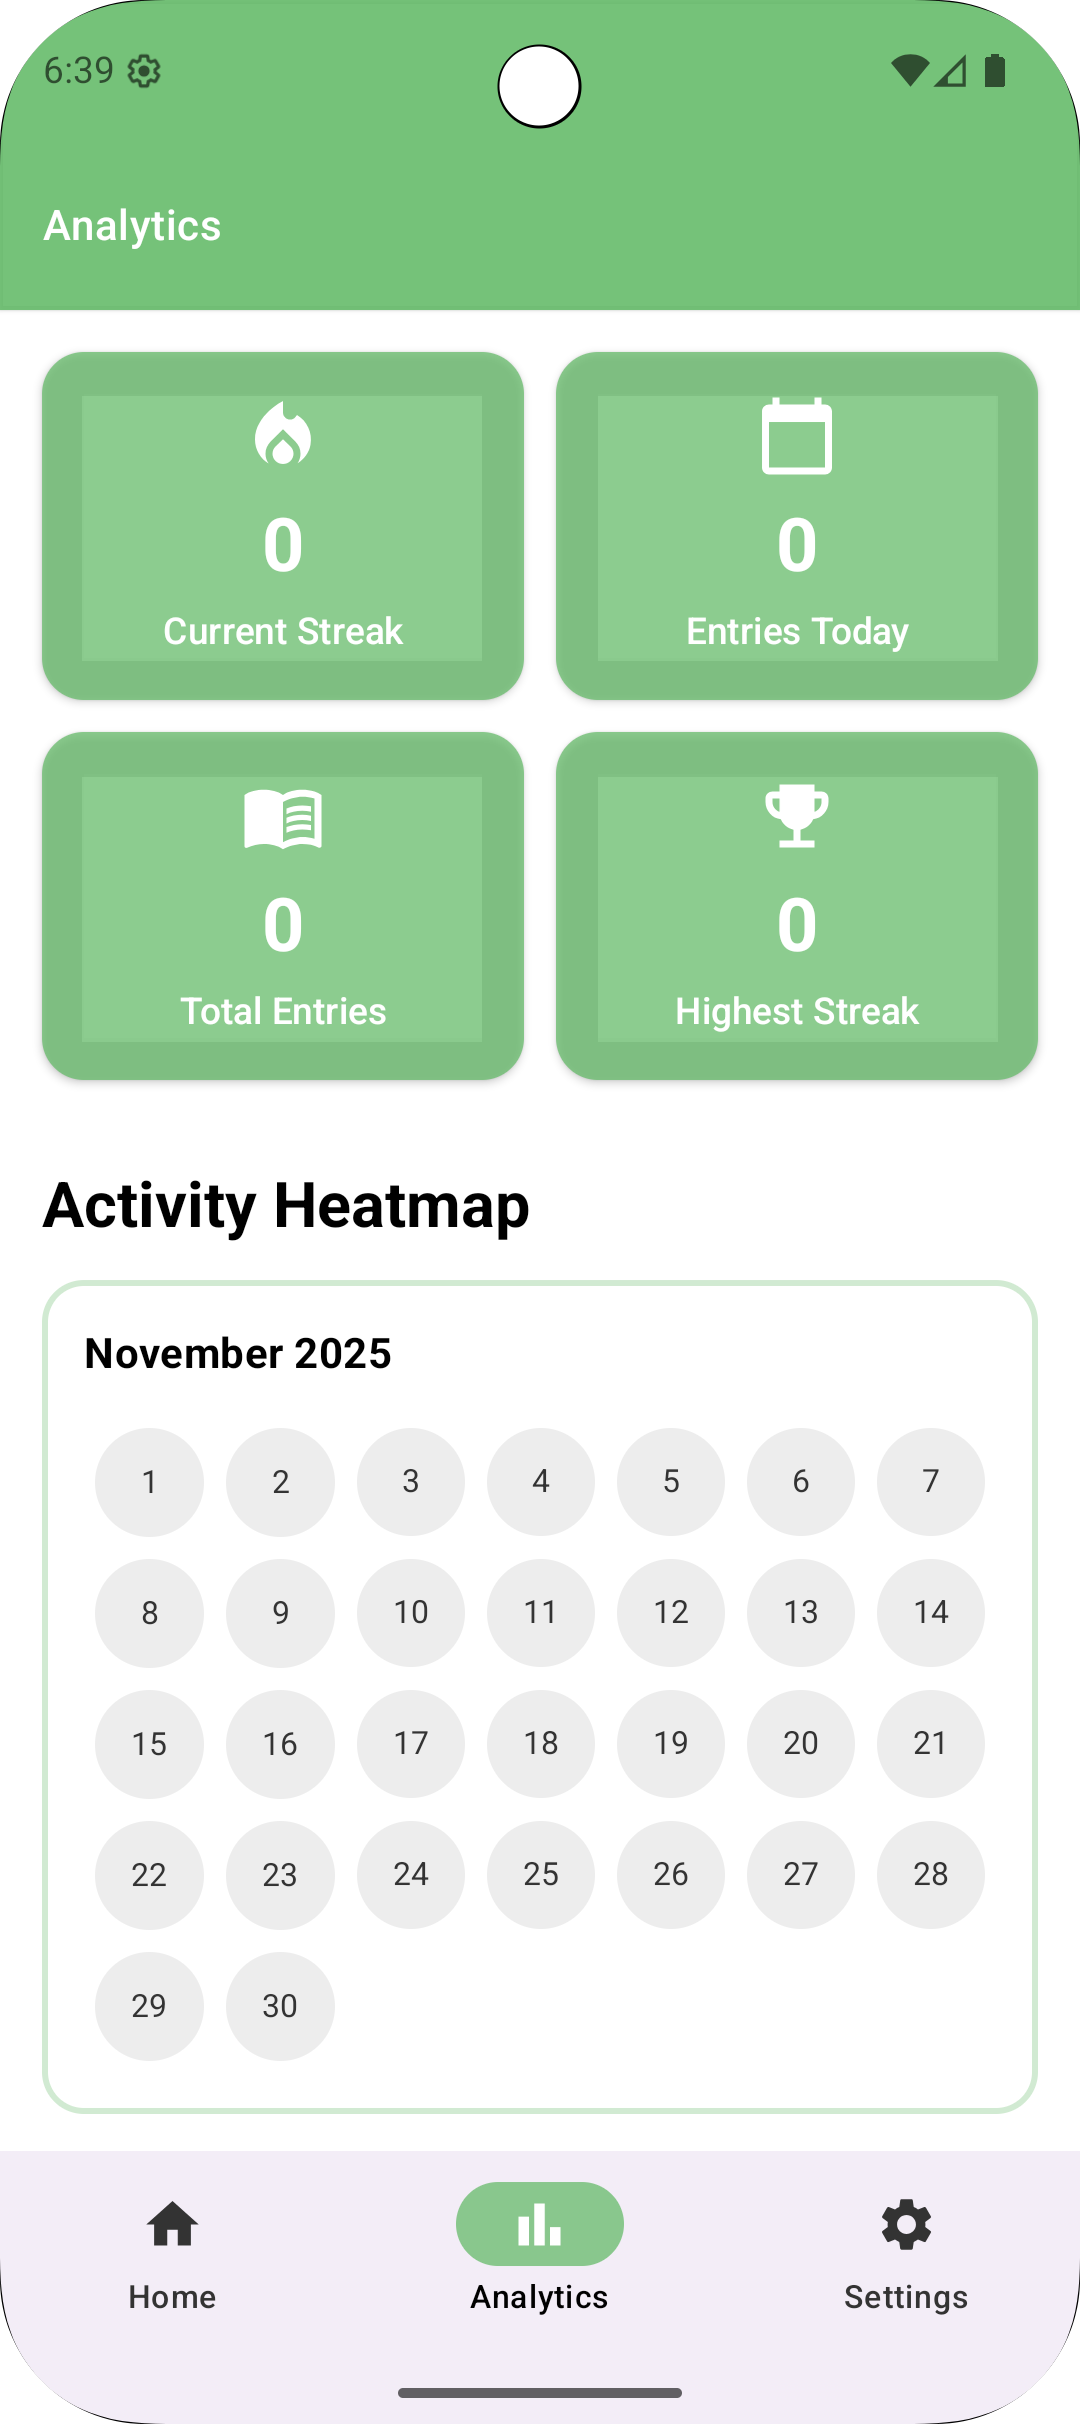
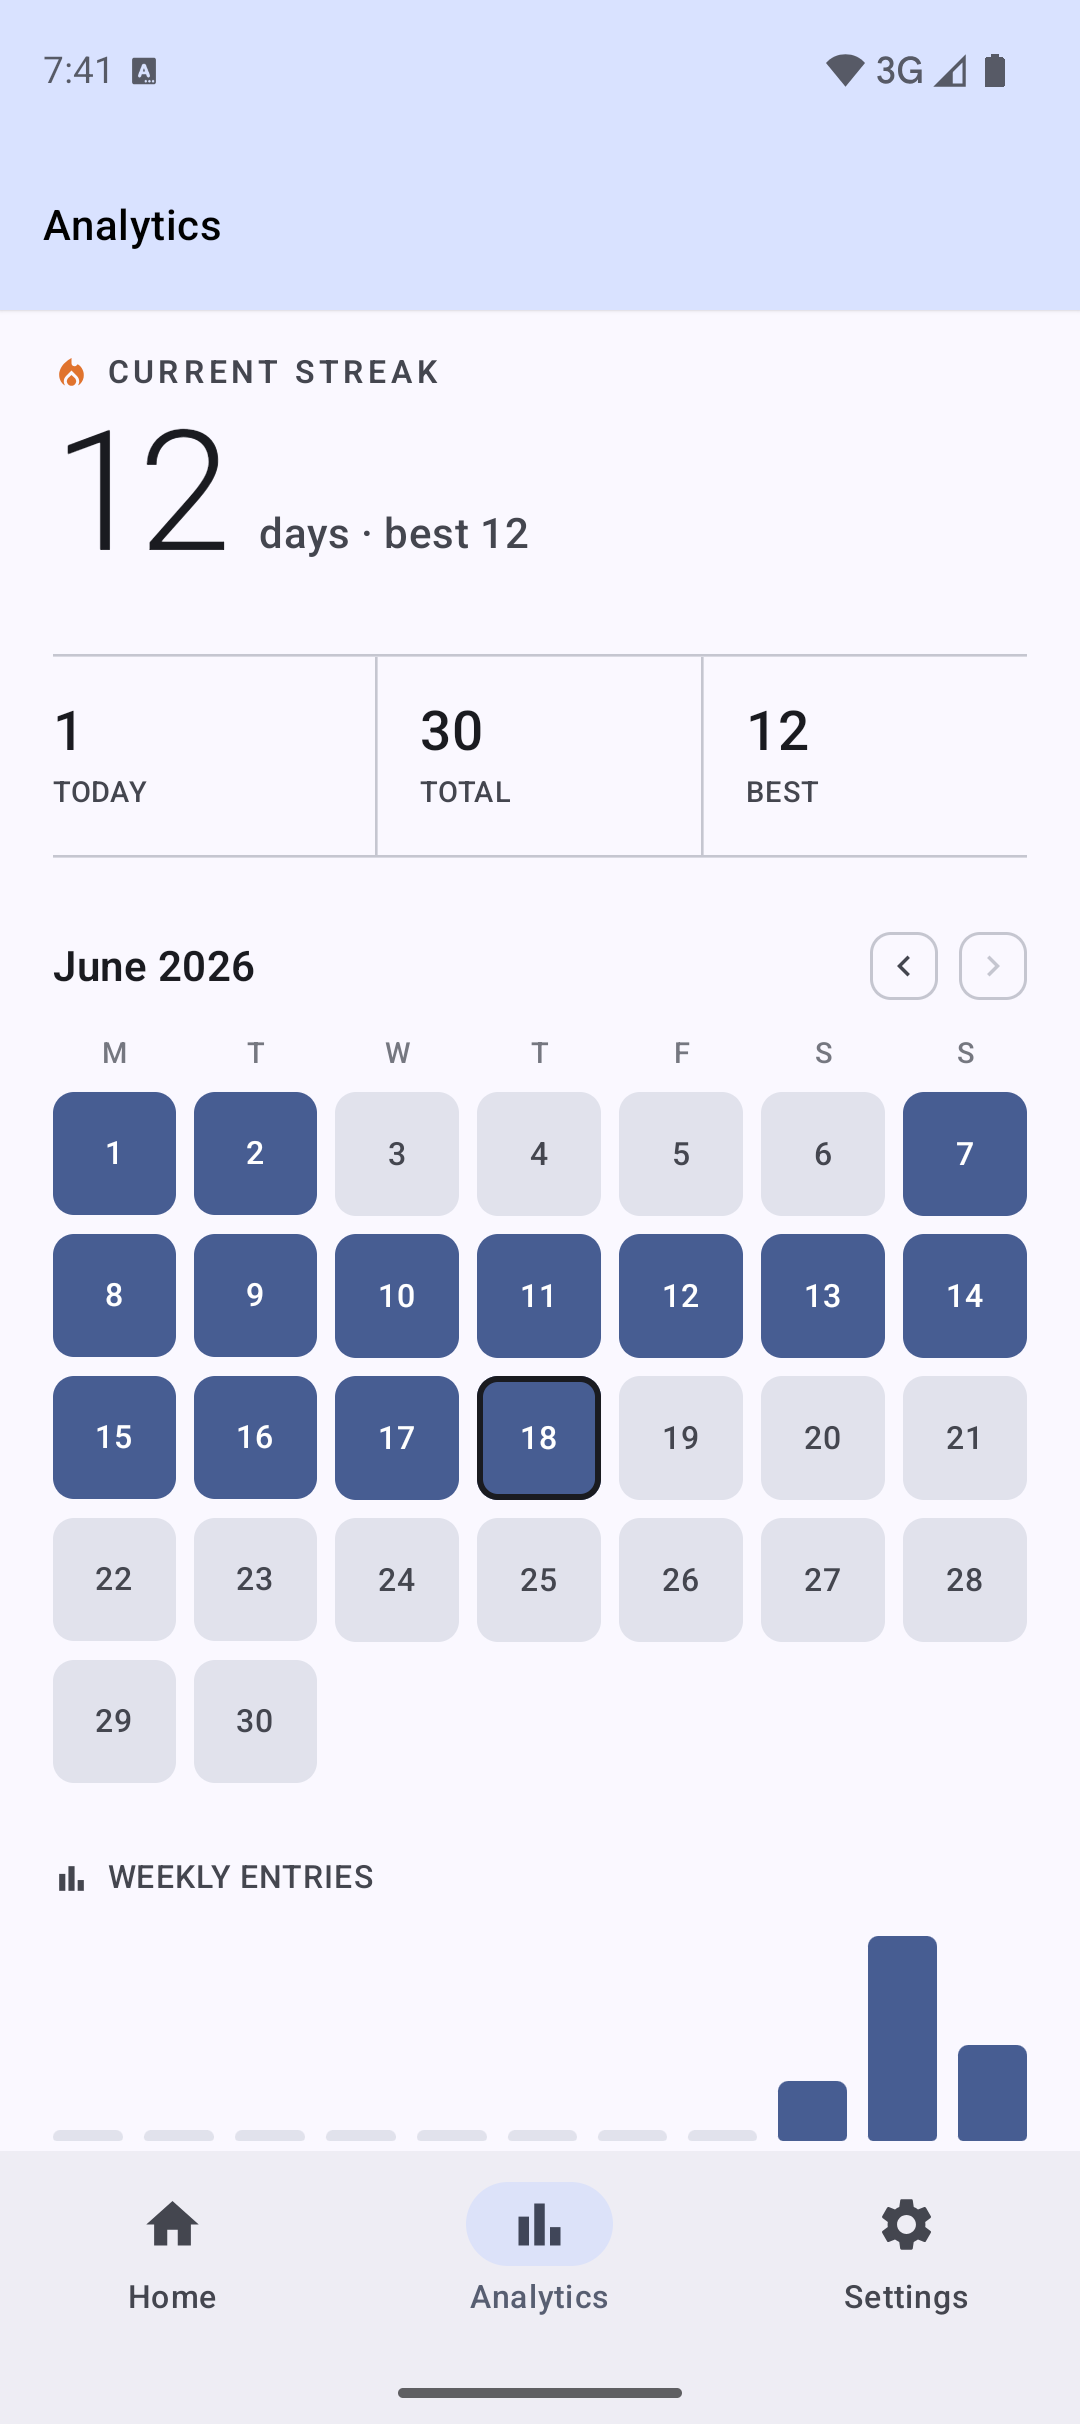
Refresh README screenshots and update docs
Replace stale screenshots with current app design, remove unused
screenshot files, and correct min SDK and tech stack in README.

diff --git a/README.md b/README.md
@@ -23,8 +23,10 @@ Journey is a personal journaling app built with Jetpack Compose and Kotlin. It h
 - Jetpack Compose
 - Material 3
 - Hilt (DI)
+- Room (local database)
 - DataStore (preferences)
-- MVVM architecture
+- WorkManager (daily reminders)
+- MVVM with Clean Architecture
 
 ## Getting Started
 
@@ -32,15 +34,15 @@ Journey is a personal journaling app built with Jetpack Compose and Kotlin. It h
 
 - Android Studio (2025.1.2 or newer)
 - JDK 17+
-- Android device or emulator (API 24+)
+- Android device or emulator (API 26+ / Android 8.0)
 
 ### Setup
 
 1. **Clone the repository:**
    ```sh
-   git clone https://github.com/Tobibur/Journey.git 
-   cd journey
-    ```
+   git clone https://github.com/Tobibur/Journey.git
+   cd Journey
+   ```
 2. **Open the project in Android Studio:**
 3. **Sync Gradle:**
    - Click on "Sync Now" when prompted to sync Gradle files.
